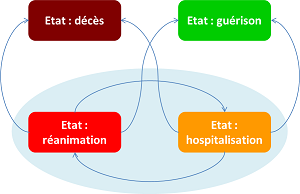
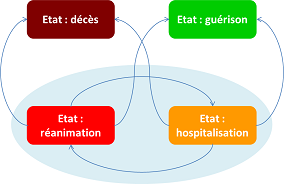
new updates

diff --git a/templates/graphs.html b/templates/graphs.html
@@ -68,36 +68,36 @@
                                     <p align="center">
                                         Les états de santé et les possibles transitions inter-états pour un patient atteint du virus COVID-19
                                     </p>  
-                                    <div class=conteneur>
+                                    <center>
                                         <img usemap="#etats" src="{{ url_for('static', filename='images/little_transition_fig.png') }}" alt="">
-                                    </div>                               
+                                    </center>                               
                                     <map name="etats">
-                                        <area href="#patients_décédés_quotidiennement" shape="rect" coords="30,0 121,41">
-                                        <area href="#patients_en_réanimation" shape="rect" coords="30,113 121,152">
-                                        <area href="#patients_guéris_quotidiennement" shape="rect" coords="179,0 271,41">
-                                        <area href="#patients_en_hospitalisation" shape="rect" coords="179,113 271,152">
+                                        <area href="#patients_décédés_quotidiennement" shape="rect" coords="27,0 114,38">
+                                        <area href="#patients_en_réanimation" shape="rect" coords="27,106 114,144">
+                                        <area href="#patients_guéris_quotidiennement" shape="rect" coords="169,0 256,38">
+                                        <area href="#patients_en_hospitalisation" shape="rect" coords="169,106 256,144">
                                     </map>
-                                    <div class="row">
-                                        <div class="col-md-6">
-                                            <button onclick="window.location.href='#patients_en_réanimation';" class="button resuscitation">
-                                                <span class="key-value">{{ counters['current_rea'] }}</span>
-                                                {% if (counters['current_rea']>1): %}
-                                                    <br /> réanimations
-                                                {% else: %}
-                                                    <br /> réanimation
-                                                {% endif %}
-                                            </button>
-                                        </div>
-                                        <div class="col-md-6">
-                                            <button onclick="window.location.href='#patients_en_hospitalisation';" class="button hospitalized">
-                                                <span class="key-value">{{ counters['current_hosp'] }}</span>
-                                                {% if (counters['current_hosp']>1): %}
-                                                    <br /> hospitalisations
-                                                {% else: %}
-                                                    <br /> hospitalisation
-                                                {% endif %}
-                                            </button>
-                                        </div>
+                                </div>
+                                <div class="row">
+                                    <div class="col-md-6">
+                                        <button onclick="window.location.href='#patients_en_réanimation';" class="button resuscitation">
+                                            <span class="key-value">{{ counters['current_rea'] }}</span>
+                                            {% if (counters['current_rea']>1): %}
+                                                <br /> réanimations
+                                            {% else: %}
+                                                <br /> réanimation
+                                            {% endif %}
+                                        </button>
+                                    </div>
+                                    <div class="col-md-6">
+                                        <button onclick="window.location.href='#patients_en_hospitalisation';" class="button hospitalized">
+                                            <span class="key-value">{{ counters['current_hosp'] }}</span>
+                                            {% if (counters['current_hosp']>1): %}
+                                                <br /> hospitalisations
+                                            {% else: %}
+                                                <br /> hospitalisation
+                                            {% endif %}
+                                        </button>
                                     </div>
                                 </div>
                             </div>

diff --git a/static/css/styles.css b/static/css/styles.css
@@ -221,7 +221,6 @@ button.button:hover {
 }
 .button.resuscitation:hover { background-color: /*hsl(39, 100%, 65%)*/  hsl(0, 100%, 70%); }
 
-
 .button.hospitalized {
 	color: 				/*hsl(39, 100%, 30%)*/ hsl(30, 100%, 30%) !important;
 	background-color: 	/*hsl(39, 100%, 50%);*/ hsl(30, 100%, 50%);
@@ -237,7 +236,6 @@ button.button:hover {
 							rgba(0,0,0,0.2) 0 .5em 5px; /* drop shadow */
 }
 .button.hospitalized:hover { background-color: /*hsl(39, 100%, 65%)*/ hsl(30, 100%, 70%); }
-
 
 .button.healed {
 	color: 				/*hsl(39, 100%, 30%)*/ hsl(109, 65%, 30%) !important;
@@ -256,15 +254,11 @@ button.button:hover {
 .button.healed:hover { background-color: /*hsl(39, 100%, 65%)*/ hsl(109, 65%, 70%); }
 
 
-
-
-
 /* -------------- States -------------- */
 
 .button:hover {
 	background-color: 	hsl(0, 0%, 83%);
 }
-
 
 
 .button:active {
